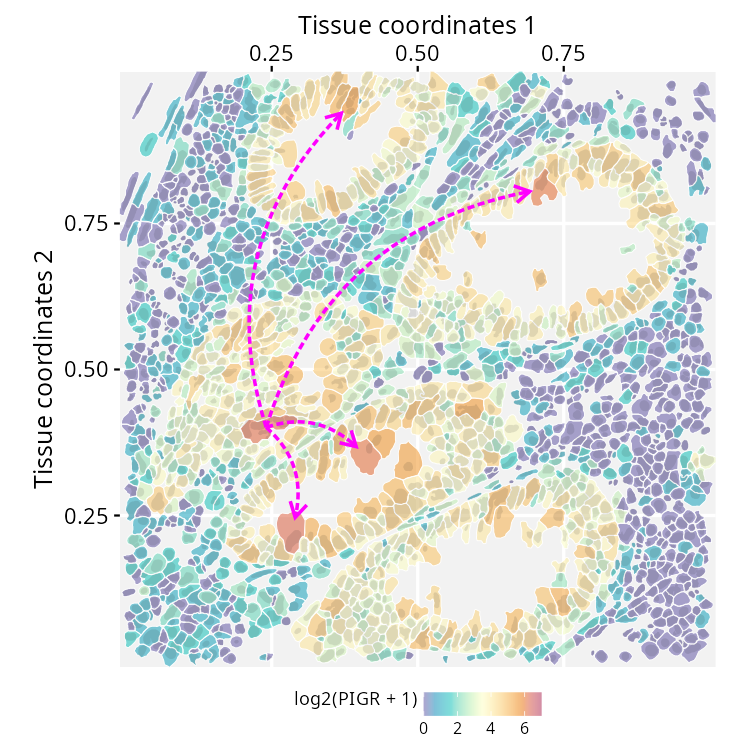
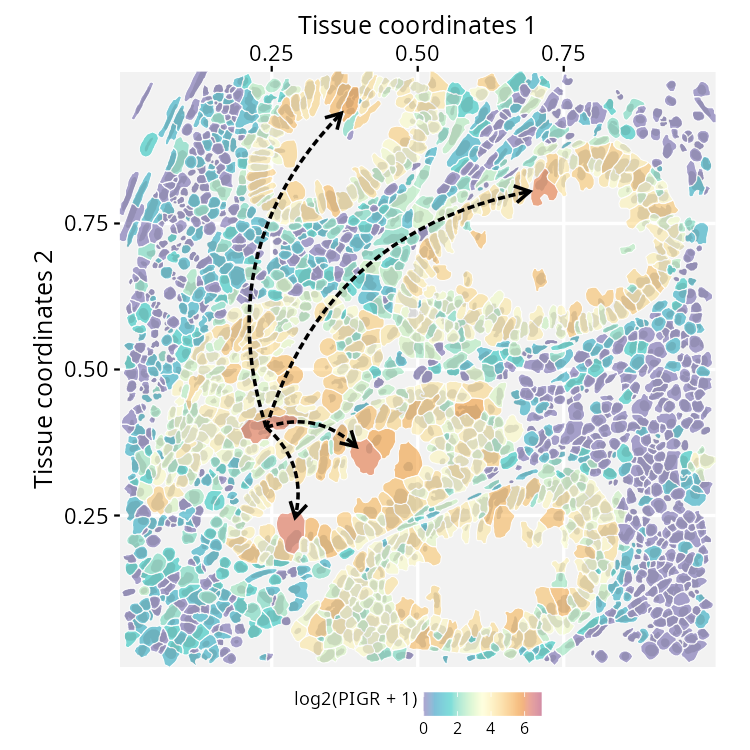
update documentation [skip ci]

diff --git a/docs/articles/nested-geometries.html b/docs/articles/nested-geometries.html
@@ -469,17 +469,17 @@ and renders the resulting subgraph as an additional layer on top of the
 original visualization.</p>
 <div class="sourceCode" id="cb19"><pre class="downlit sourceCode r">
 <code class="sourceCode R"><span><span class="co"># Subgraph containing the 5 cells with the highest PIGR expression</span></span>
-<span><span class="va">gs_subset</span> <span class="op">&lt;-</span> <span class="va">gs_crop3</span> <span class="op">|&gt;</span> </span>
+<span><span class="va">subgs_crop3</span> <span class="op">&lt;-</span> <span class="va">gs_crop3</span> <span class="op">|&gt;</span> </span>
 <span>  <span class="fu"><a href="../reference/gs_subset.html">gs_subset_nodes</a></span><span class="op">(</span><span class="fu"><a href="https://rdrr.io/r/base/rank.html" class="external-link">rank</a></span><span class="op">(</span><span class="op">-</span><span class="va">PIGR</span><span class="op">)</span> <span class="op">&lt;=</span> <span class="fl">5</span><span class="op">)</span></span></code></pre></div>
 <div class="sourceCode" id="cb20"><pre class="downlit sourceCode r">
 <code class="sourceCode R"><span><span class="co"># Create directed edges from the highest-ranked cell to all others</span></span>
 <span><span class="va">edges</span> <span class="op">&lt;-</span> <span class="fu"><a href="https://rdrr.io/r/base/data.frame.html" class="external-link">data.frame</a></span><span class="op">(</span></span>
-<span>  from <span class="op">=</span> <span class="va">gs_subset</span><span class="op">$</span><span class="va">name</span><span class="op">[</span><span class="fl">1</span><span class="op">]</span>, </span>
-<span>  to <span class="op">=</span> <span class="va">gs_subset</span><span class="op">$</span><span class="va">name</span><span class="op">[</span><span class="op">-</span><span class="fl">1</span><span class="op">]</span>, </span>
+<span>  from <span class="op">=</span> <span class="va">subgs_crop3</span><span class="op">$</span><span class="va">name</span><span class="op">[</span><span class="fl">1</span><span class="op">]</span>, </span>
+<span>  to <span class="op">=</span> <span class="va">subgs_crop3</span><span class="op">$</span><span class="va">name</span><span class="op">[</span><span class="op">-</span><span class="fl">1</span><span class="op">]</span>, </span>
 <span>  arrowType <span class="op">=</span> <span class="fl">1</span><span class="op">)</span></span>
 <span></span>
 <span><span class="co"># Add the edges to GraphSpace</span></span>
-<span><span class="va">gs_subset</span> <span class="op">&lt;-</span> <span class="fu"><a href="../reference/gs_add_edges.html">gs_add_edges</a></span><span class="op">(</span><span class="va">gs_subset</span>, value <span class="op">=</span> <span class="va">edges</span><span class="op">)</span></span></code></pre></div>
+<span><span class="va">subgs_crop3</span> <span class="op">&lt;-</span> <span class="fu"><a href="../reference/gs_add_edges.html">gs_add_edges</a></span><span class="op">(</span><span class="va">subgs_crop3</span>, value <span class="op">=</span> <span class="va">edges</span><span class="op">)</span></span></code></pre></div>
 <div class="sourceCode" id="cb21"><pre class="downlit sourceCode r">
 <code class="sourceCode R"><span><span class="co"># Add the subgraph as a new layer with its own graphical representation</span></span>
 <span><span class="va">p</span> <span class="op">&lt;-</span> <span class="fu"><a href="https://ggplot2.tidyverse.org/reference/ggplot.html" class="external-link">ggplot</a></span><span class="op">(</span><span class="va">gs_crop3</span><span class="op">)</span> <span class="op">+</span> </span>
@@ -487,7 +487,7 @@ original visualization.</p>
 <span>    fill <span class="op">=</span> <span class="fu"><a href="https://rdrr.io/r/base/Log.html" class="external-link">log2</a></span><span class="op">(</span><span class="va">PIGR</span> <span class="op">+</span> <span class="fl">1</span><span class="op">)</span> <span class="op">)</span>, colour <span class="op">=</span> <span class="st">"white"</span><span class="op">)</span> <span class="op">+</span></span>
 <span>  <span class="fu"><a href="https://ggplot2.tidyverse.org/reference/ggsf.html" class="external-link">geom_sf</a></span><span class="op">(</span> <span class="fu"><a href="https://ggplot2.tidyverse.org/reference/aes.html" class="external-link">aes</a></span><span class="op">(</span>geometry <span class="op">=</span> <span class="va">nucleus_geometry</span><span class="op">)</span>, alpha <span class="op">=</span> <span class="fl">0.1</span>,</span>
 <span>    fill <span class="op">=</span> <span class="fu"><a href="https://rdrr.io/r/grDevices/adjustcolor.html" class="external-link">adjustcolor</a></span><span class="op">(</span><span class="st">"black"</span>, <span class="fl">0.5</span><span class="op">)</span>, colour <span class="op">=</span> <span class="cn">NA</span><span class="op">)</span> <span class="op">+</span></span>
-<span>  <span class="fu"><a href="../reference/geom_edgespace.html">geom_edgespace</a></span><span class="op">(</span>data <span class="op">=</span> <span class="va">gs_subset</span>, colour <span class="op">=</span> <span class="st">"magenta"</span>, </span>
+<span>  <span class="fu"><a href="../reference/geom_edgespace.html">geom_edgespace</a></span><span class="op">(</span>data <span class="op">=</span> <span class="va">subgs_crop3</span>, colour <span class="op">=</span> <span class="st">"black"</span>, </span>
 <span>    curve <span class="op">=</span> <span class="fl">0.3</span>, lwd <span class="op">=</span> <span class="fl">0.8</span>, lty <span class="op">=</span> <span class="st">"21"</span>, arrow_size <span class="op">=</span> <span class="fl">1</span><span class="op">)</span> <span class="op">+</span></span>
 <span>  <span class="fu"><a href="https://ggplot2.tidyverse.org/reference/scale_colour_continuous.html" class="external-link">scale_fill_continuous</a></span><span class="op">(</span>palette <span class="op">=</span> <span class="fu"><a href="https://rdrr.io/r/grDevices/adjustcolor.html" class="external-link">adjustcolor</a></span><span class="op">(</span><span class="va">cpal</span>, <span class="fl">0.5</span><span class="op">)</span>, </span>
 <span>    limits <span class="op">=</span> <span class="va">data_range</span><span class="op">)</span> <span class="op">+</span></span>
